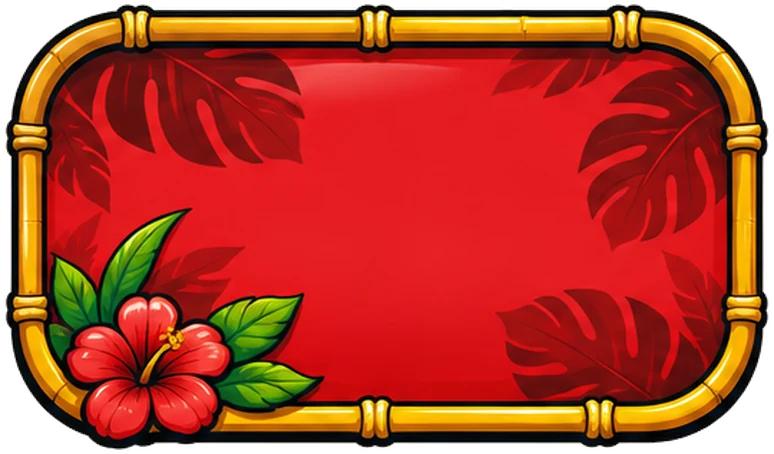
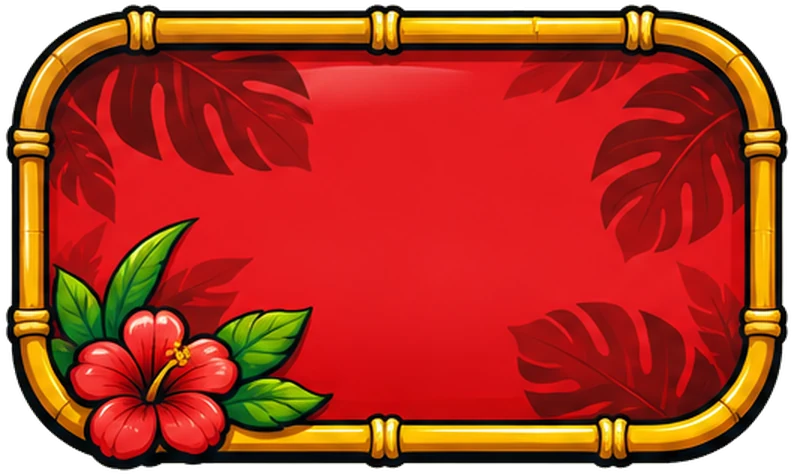
Tropical : rails, barre et carte calés sur le corps du dessin (hors attaches) = mêmes hauteurs que la Base (lf-344)
Claude-Session: https://claude.ai/code/session_01Agff8va3qxXu2Vw43sb54j

diff --git a/index.html b/index.html
@@ -3563,7 +3563,7 @@ html body #hist #hBody .h2last small{font:400 11px "Lbl",sans-serif;color:var(--
 /* ===== habillage « Tropical » (Cricket 1 contre 1 ; clé interne « casino ») : images dessinées par Loubi, découpées depuis sa planche ; « Base » = rendu normal ===== */
 html body.skin-casino #game#game#game#game.p2 .sc.act{background:transparent!important;box-shadow:none!important}
 html body.skin-casino #game#game#game#game.p2 .sc.act::after{opacity:0!important}
-html body.skin-casino #game#game#game#game.p2 .sc.act::before{content:'';position:absolute;inset:-5px;background:url(skins/casino/carte.webp) 0 0/100% 100% no-repeat;z-index:-1;pointer-events:none}
+html body.skin-casino #game#game#game#game.p2 .sc.act::before{content:'';position:absolute;inset:-8.5px -8.5px -8.5px -8.5px;background:url(skins/casino/carte.webp) 0 0/100% 100% no-repeat;z-index:-1;pointer-events:none}
 html body.skin-casino #game#game#game#game.p2 .sc .pill:not(.undo){background:transparent 0 0/100% 100% no-repeat!important;box-shadow:none!important;opacity:1!important;border-color:transparent!important;position:relative;isolation:isolate}
 html body.skin-casino #game#game#game#game.p2 .sc .pill:not(.undo)::before{content:'';position:absolute;inset:-3px -5px;background:inherit;background-size:100% 100%!important;z-index:-1;pointer-events:none}
 html body.skin-casino #game#game#game#game.p2 .sc:not(.act) .pill:not(.undo)::before{inset:-2px -3px}
@@ -3576,11 +3576,12 @@ html body.skin-casino #game#game#game#game.p2 .sc:not(.act) .pill:not(.undo){bac
 html body.skin-casino #game#game#game#game.p2 .sc:not(.act) .pill.d{background-image:url(skins/casino/pa_d.webp)!important}
 html body.skin-casino #game#game#game#game.p2 .sc:not(.act) .pill.t{background-image:url(skins/casino/pa_t.webp)!important}
 html body.skin-casino #game#game#game#game.p2 .sc:not(.act) .pill.e,html body.skin-casino #game#game#game#game.p2 .sc:not(.act) .pill.z{background-image:url(skins/casino/pa_z.webp)!important}
-html body.skin-casino #game#game#game#game.p2 .rtrackb{border-color:transparent!important;background:url(skins/casino/rail.webp) 0 0/100% 100% no-repeat!important;z-index:0!important}
+html body.skin-casino #game#game#game#game.p2 .rtrackb{border-color:transparent!important;background:none!important;z-index:0!important}
+html body.skin-casino #game#game#game#game.p2 .rtrackb::before{content:'';position:absolute;inset:-3.7px -4.6px -3.7px -4.2px;background:url(skins/casino/rail.webp) 0 0/100% 100% no-repeat;pointer-events:none}
 html body.skin-casino #game#game#game#game.p2 #grid .num{background:transparent!important;box-shadow:none!important}
 html body.skin-casino #game#game#game#game.p2 #grid .num::before{content:'';position:absolute;inset:-5px -6px;background:url(skins/casino/num.webp) 0 0/100% 100% no-repeat;z-index:-1;pointer-events:none}
 html body.skin-casino #game#game#game#game.p2 #grid .num.dead::before{background-image:url(skins/casino/num_mort.webp)}
-html body.skin-casino #game#game#game#game.p2 footer::after{border-color:transparent!important;background:url(skins/casino/barre.webp) 0 0/100% 100% no-repeat!important;z-index:0!important}
+html body.skin-casino #game#game#game#game.p2 footer::after{border-color:transparent!important;background:url(skins/casino/barre.webp) 0 0/100% 100% no-repeat!important;z-index:0!important;inset:-3.5px -4.8px -3.1px -4.4px!important}
 html body.skin-casino #game#game#game#game.p2 .fthumb{background:transparent!important;box-shadow:none!important}
 html body.skin-casino #game#game#game#game.p2 .fthumb::before{content:'';position:absolute;inset:-4.8px;background:url(skins/casino/curseur.webp) 0 0/100% 100% no-repeat;pointer-events:none}
 html body.skin-casino #game#game#game#game.p2 .mw{position:relative;isolation:isolate}
@@ -7100,7 +7101,7 @@ $('grid').addEventListener('click',e=>{if(!BARC)return;e.stopImmediatePropagatio
 /* ===== thème : 3 réglages de couleur (fond, contours et textes, bulles) ===== */
 /* thème unique (Bulle d'origine) : on efface les anciens réglages de couleurs et de style */
 if(S.th||S.style||S.pfT||S.pfN||S.pst){['th','style','pfT','pfN','pst'].forEach(k=>delete S[k]);try{store.set(K_S,S)}catch(e){}}
-const APPV='lf-343';   // à changer avec VERSION dans sw.js
+const APPV='lf-344';   // à changer avec VERSION dans sw.js
 ['--m-bg','--m-card','--m-line','--m-strongtx','--btx','--accent','--acc-rgb','--m-home','--ui-bg','--page','--m-cell','--ink','--m-ink','--m-strong','--mute','--m-sub'].forEach(k=>document.documentElement.style.removeProperty(k));
 try{colApply()}catch(e){}   // couleurs choisies : rétablies à chaque ouverture
 $('skinT').addEventListener('click',e=>{e.stopPropagation();haptic();SFX.ui();

diff --git a/sw.js b/sw.js
@@ -1,7 +1,7 @@
 /* Loubard Fléchard — hors ligne + mises à jour automatiques.
    Page : réseau d'abord (version la plus récente), cache si pas de réseau.
    Change VERSION à chaque mise à jour publiée. */
-const VERSION='lf-343';
+const VERSION='lf-344';
 const FILES=['./','index.html','sync.js','scenes.js','manifest.json','art/lexend.woff','art/ui-300.woff','art/ui-600.woff','art/ui-750.woff','art/ui-900.woff','art/fun.woff','art/funl.woff','art/funtxt.woff','art/lbl.woff','icon-180.png','icon-192.png','icon-512.png','skins/casino/accueil.webp','skins/casino/annuler.webp','skins/casino/barre.webp','skins/casino/carte.webp','skins/casino/couronne.webp','skins/casino/curseur.webp','skins/casino/disque.webp','skins/casino/num.webp','skins/casino/num_mort.webp','skins/casino/p_d.webp','skins/casino/p_e.webp','skins/casino/p_s.webp','skins/casino/p_t.webp','skins/casino/p_z.webp','skins/casino/pa.webp','skins/casino/pa_d.webp','skins/casino/pa_t.webp','skins/casino/pa_z.webp','skins/casino/rail.webp','skins/casino/trait1.webp','skins/casino/trait2.webp'];
 self.addEventListener('install',e=>{e.waitUntil(caches.open(VERSION)
   .then(c=>Promise.all(FILES.map(f=>fetch(f,{cache:'reload'}).then(r=>r.ok&&c.put(f,r)).catch(()=>{}))))
